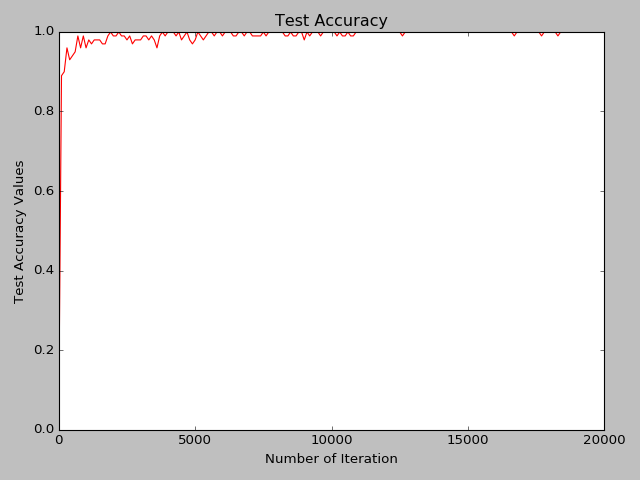
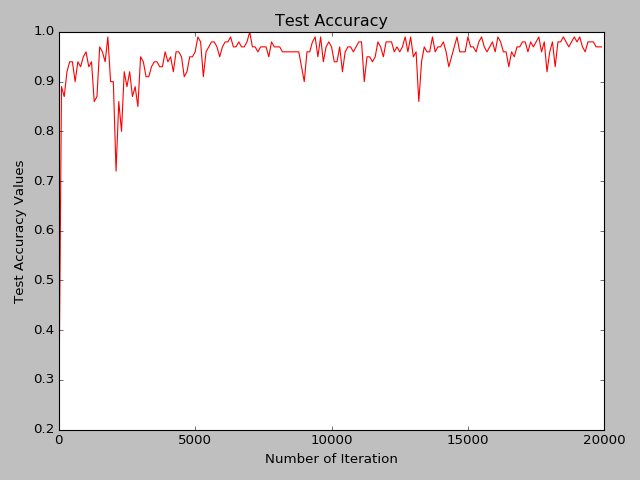
Update Q12

diff --git a/Exam2/train_mnist.py b/Exam2/train_mnist.py
@@ -28,6 +28,7 @@ caffe.set_mode_gpu()
 
 #solver = caffe.get_solver('lenet_solver.prototxt')
 # Use SGDSolver, namely stochastic gradient descent algorithm
+# solver = caffe.AdamSolver('lenet_solver.prototxt')
 solver = caffe.SGDSolver('lenet_solver.prototxt')
 #----------You need to run the following command to goustat works-------------------------------
 #  sudo pip install gpustat

diff --git a/Exam2/Report.md b/Exam2/Report.md
@@ -106,22 +106,25 @@ New structure: Change kernel size to 3x3 and add one Convolution layer.
 |Original|![](./SGD-loss.png)|![](SGD-accuracy.png)|
 |New|![](new-loss.png)|![](new-accuracy.png)|
 
-|Structure|Loss|Accuracy|
+|Structure|Average Time|Total Time 20k epoch)|
+|----|----|----|
 |Original|0.00290|58.04|
 |New|0.002168|43.37|
 
+Finding: The new structure with smaller kernel size trains faster, however the convergence is slower.
+
  
 ## Question 12
-Add [Adam optimizer](http://caffe.berkeleyvision.org/tutorial/solver.html) in ```lenet_solver.prototxt```
+Modify to [Adam optimizer](http://caffe.berkeleyvision.org/tutorial/solver.html) in ```train_mnist.py```
 
-```text
-type:"Adam"
+```python
+solver = caffe.AdamSolver('lenet_solver.prototxt')
 ```
+
 
 |Optimizer|Loss|Accuracy|
 |----|----|----|
 |SGD|![](./SGD-loss.png)|![](./SGD-accuracy.png)|
 |Adam|![](./adam-loss.png)|![](./adam-accuracy.png)|
 
-No big difference.
-
+Finding: SGD works much better than Adam.
